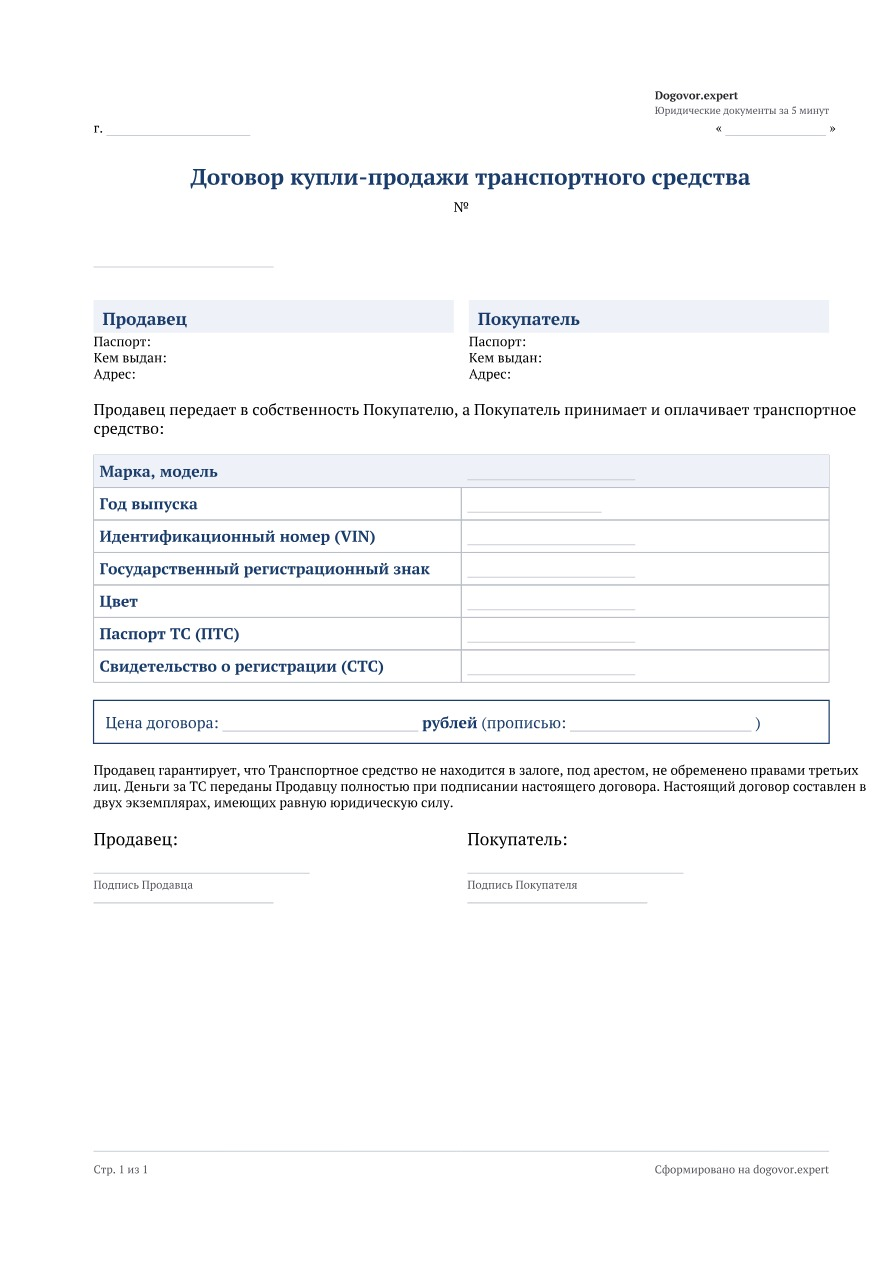
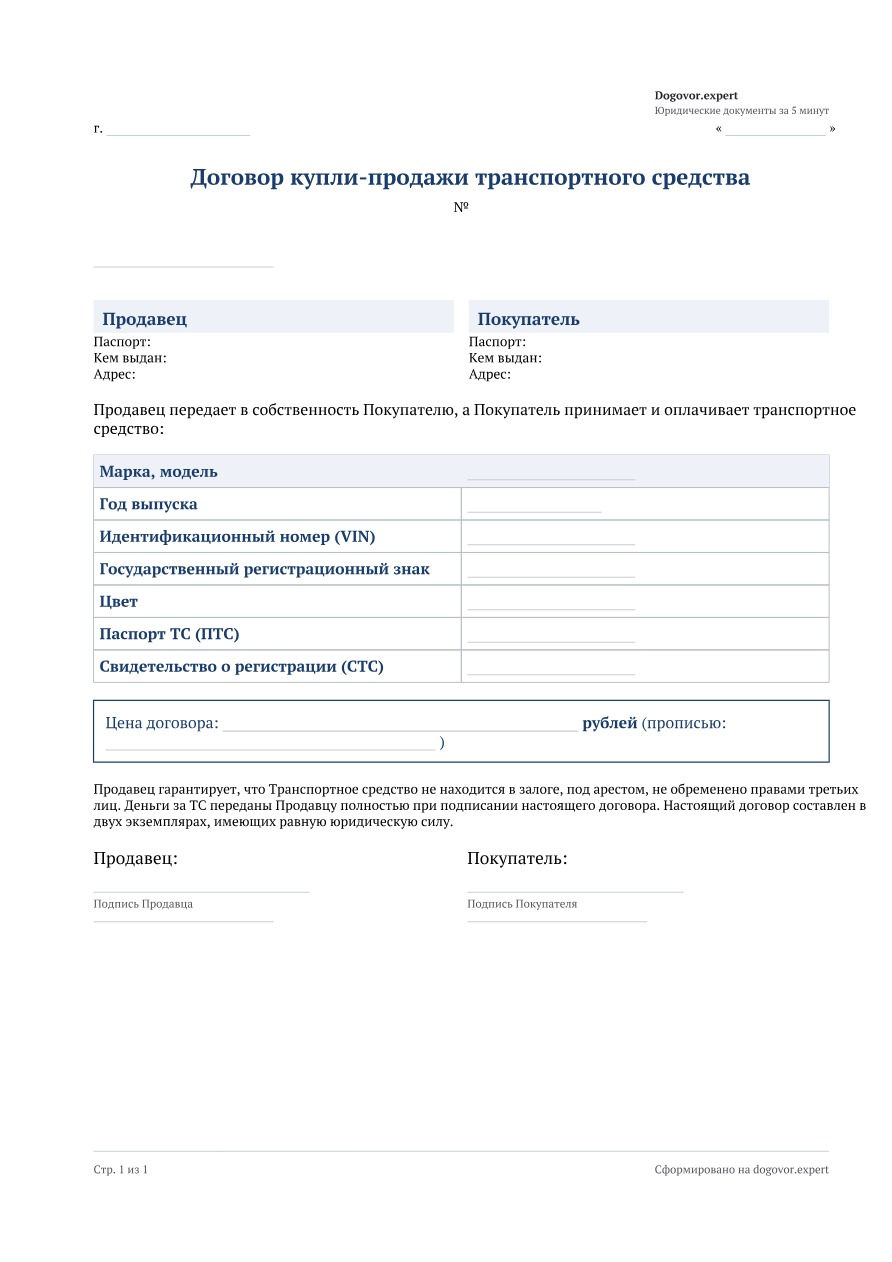
fix(blanks): dedupe variant fields in empty blanks, larger price-in-words space, print button, separated page preview

Changed region(s): [[0.0908, 0.5563, 0.9686, 0.7417]]

diff --git a/src/components/blank/BlankDownloadButtons.tsx b/src/components/blank/BlankDownloadButtons.tsx
@@ -4,7 +4,7 @@ import { useState } from "react";
 import { LEGAL_TEMPLATES } from "@/data/legalTemplates";
 import { renderTemplateDocument } from "@/lib/renderDocument";
 import { saveAs } from "file-saver";
-import { Download, FileText, FileType2, Loader2 } from "lucide-react";
+import { Download, FileText, FileType2, Loader2, Printer } from "lucide-react";
 
 function safeFileName(name: string): string {
   const cleaned = name
@@ -15,8 +15,63 @@ function safeFileName(name: string): string {
 }
 
 export default function BlankDownloadButtons({ templateId }: { templateId: string }) {
-  const [busy, setBusy] = useState<null | "pdf" | "docx">(null);
+  const [busy, setBusy] = useState<null | "pdf" | "docx" | "print">(null);
   const [error, setError] = useState<string | null>(null);
+
+  const handlePrint = async () => {
+    setBusy("print");
+    setError(null);
+    let iframe: HTMLIFrameElement | null = null;
+    let url = "";
+    try {
+      const t = LEGAL_TEMPLATES.find((x) => x.id === templateId);
+      if (!t) throw new Error("Шаблон не найден");
+
+      const { TEMPLATE_PREVIEWS } = await import("@/data/templatePreviews");
+      const previewTemplate = TEMPLATE_PREVIEWS[t.id] ?? t.previewTemplate;
+      const html = renderTemplateDocument(t, {}, {
+        previewTemplate,
+        blank: true,
+        blankMode: "pdf",
+      });
+
+      const { buildPdf } = await import("@/lib/exportPdf");
+      const { blob } = await buildPdf(html, {
+        design: "classic",
+        pageNumbers: true,
+      });
+
+      url = URL.createObjectURL(blob);
+      iframe = document.createElement("iframe");
+      iframe.style.position = "fixed";
+      iframe.style.right = "0";
+      iframe.style.bottom = "0";
+      iframe.style.width = "0px";
+      iframe.style.height = "0px";
+      iframe.style.border = "0";
+      iframe.onload = () => {
+        try {
+          iframe?.contentWindow?.focus();
+          iframe?.contentWindow?.print();
+        } catch {
+          /* ignore */
+        }
+        setTimeout(() => {
+          if (url) URL.revokeObjectURL(url);
+          iframe?.remove();
+        }, 60000);
+      };
+      iframe.src = url;
+      document.body.appendChild(iframe);
+    } catch (e) {
+      console.error("Blank print error:", e);
+      setError("Не удалось подготовить печать. Попробуйте скачать PDF.");
+      if (url) URL.revokeObjectURL(url);
+      iframe?.remove();
+    } finally {
+      setBusy(null);
+    }
+  };
 
   const handleDownload = async (format: "pdf" | "docx") => {
     setBusy(format);
@@ -84,6 +139,19 @@ export default function BlankDownloadButtons({ templateId }: { templateId: strin
           Скачать Word
         </button>
       </div>
+      <button
+        type="button"
+        onClick={handlePrint}
+        disabled={busy !== null}
+        className="inline-flex items-center justify-center gap-2 px-5 py-3 w-full bg-white border border-gray-300 text-gray-700 rounded-xl font-semibold text-sm hover:bg-gray-50 disabled:opacity-60 transition"
+      >
+        {busy === "print" ? (
+          <Loader2 className="w-5 h-5 animate-spin" />
+        ) : (
+          <Printer className="w-5 h-5" />
+        )}
+        Печатать пустой бланк
+      </button>
       <p className="text-xs text-gray-500 flex items-center gap-1.5">
         <Download className="w-3.5 h-3.5" />
         Пустой бланк с адресом сайта dogovor.expert — заполняйте от руки или онлайн.

diff --git a/src/lib/renderDocument.ts b/src/lib/renderDocument.ts
@@ -173,7 +173,8 @@ export function renderTemplateDocument(
   try {
     const view: Record<string, unknown> = {};
 
-    template.fields.forEach((f) => {
+    const blankSeenGroups = new Set<string>();
+    for (const f of template.fields) {
       const raw = formValues[f.id] || "";
 
       // Режим «пустой бланк»: вместо значений — маркеры для ручного заполнения.
@@ -183,19 +184,29 @@ export function renderTemplateDocument(
         } else if (f.type === "checkbox") {
           view[f.id] = false;
         } else {
-          view[f.id] = blankToken(f.id);
+          // Скрываем дублирующиеся варианты одного реквизита (напр.
+          // seller_ip_inn / seller_org_inn, seller_address / seller_ip_address /
+          // seller_org_address), иначе в пустом бланке появляются повторяющиеся
+          // строки «ИНН:» / «Адрес:». В бланке показываем только один вариант.
+          const groupKey = f.id.replace(/_(ip|org|legal)(?=_)/i, "");
+          if (blankSeenGroups.has(groupKey)) {
+            view[f.id] = "";
+          } else {
+            blankSeenGroups.add(groupKey);
+            view[f.id] = blankToken(f.id);
+          }
         }
-        return;
+        continue;
       }
 
       if (f.type === "checkbox") {
         view[f.id] = raw === "true";
-        return;
+        continue;
       }
 
       if (f.type === "date" && raw) {
         view[f.id] = formatRuDate(raw);
-        return;
+        continue;
       }
 
       if (f.type === "repeating") {
@@ -221,7 +232,7 @@ export function renderTemplateDocument(
           num: idx + 1,
           ...item,
         }));
-        return;
+        continue;
       }
 
       view[f.id] = raw;
@@ -242,7 +253,7 @@ export function renderTemplateDocument(
           view[`${f.id}_is_${raw}`] = true;
         }
       }
-    });
+    }
 
     const fieldIds = new Set(template.fields.map((f) => f.id));
     Object.entries(formValues).forEach(([key, value]) => {
@@ -387,8 +398,8 @@ function blankSize(f: TemplateField): number {
   if (/passport|паспорт|seria|серия|series|номер/i.test(id)) return 20;
   // Даты
   if (f.type === "date" || /date|дата/i.test(id)) return 14;
-  // Суммы
-  if (/sum|money|price|amount|стоимост|цена|сумм/i.test(id)) return 22;
+  // Суммы (в т.ч. цена прописью) — больше места для ручного заполнения
+  if (/sum|money|price|amount|стоимост|цена|сумм/i.test(id)) return 40;
   // Числовые / выбор
   if (f.type === "number") return 16;
   if (f.type === "select" || f.type === "radio") return 18;

diff --git a/src/app/blanks/[slug]/page.tsx b/src/app/blanks/[slug]/page.tsx
@@ -177,15 +177,19 @@ export default async function BlankPage({ params }: { params: Promise<{ slug: st
         </div>
         <div className="mx-auto w-full max-w-[794px] bg-white shadow-xl rounded-lg overflow-hidden ring-1 ring-gray-100">
           {previewImages.length > 0 ? (
-            <div className="flex flex-col gap-3 p-3 sm:p-4">
+            <div className="flex flex-col gap-6 p-3 sm:p-4">
               {previewImages.map((src, i) => (
                 // eslint-disable-next-line @next/next/no-img-element
-                <img
+                <div
                   key={i}
-                  src={src}
-                  alt={`Пустой бланк «${t.name}», страница ${i + 1}`}
-                  className="w-full h-auto rounded"
-                />
+                  className="bg-white shadow-lg ring-1 ring-gray-200 rounded-lg overflow-hidden"
+                >
+                  <img
+                    src={src}
+                    alt={`Пустой бланк «${t.name}», страница ${i + 1}`}
+                    className="w-full h-auto"
+                  />
+                </div>
               ))}
             </div>
           ) : (
